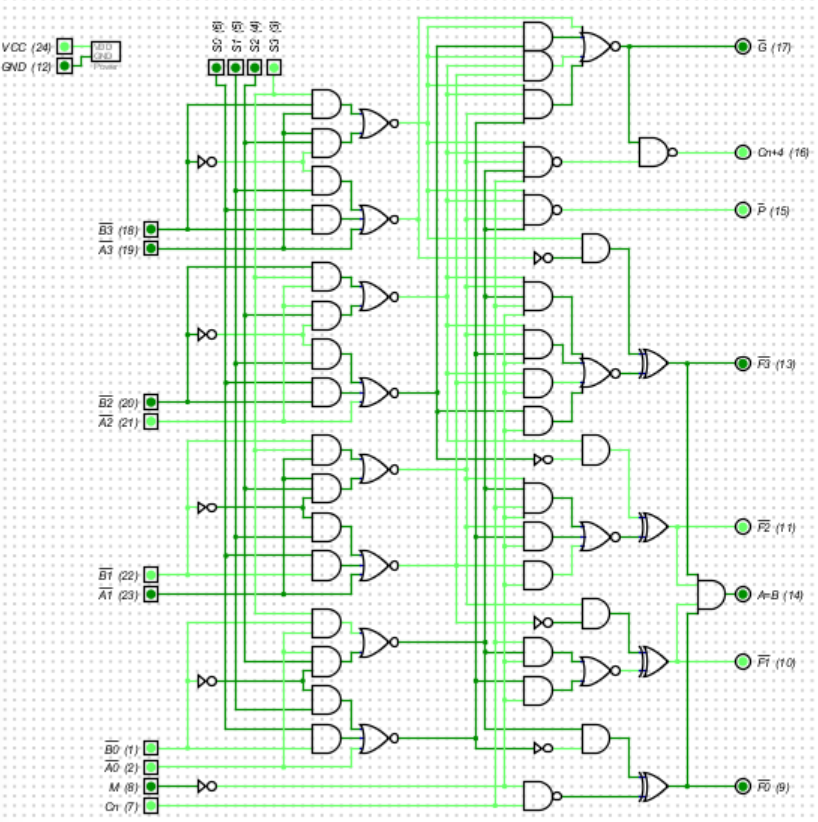
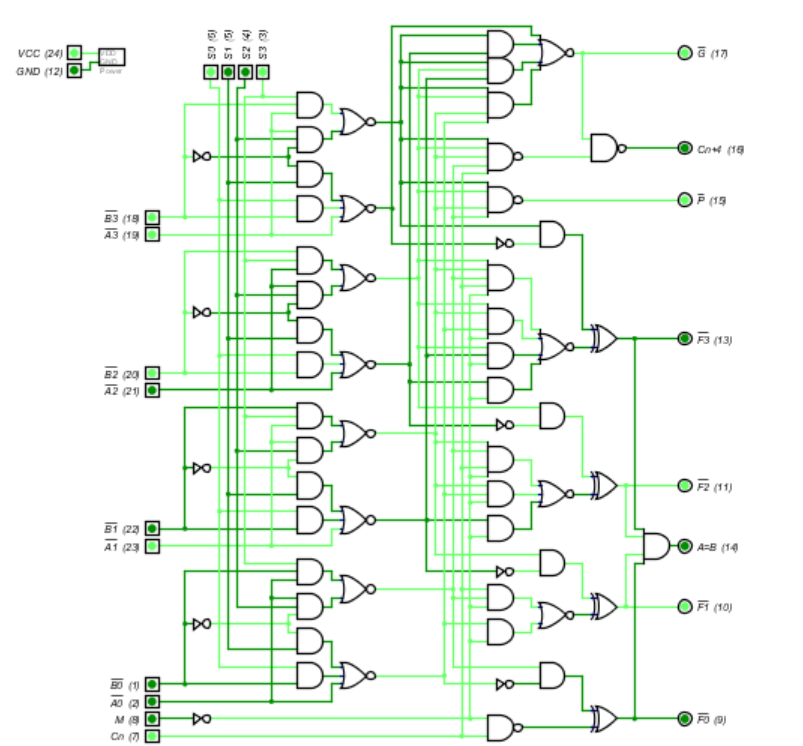
Updates images

Changed region(s): [[0.0934, 0.0, 0.9963, 1.0], [0.0, 0.0308, 0.1868, 0.1233]]

diff --git a/Lab_2/Lab_2_theory/Lab_1_Index.md b/Lab_2/Lab_2_theory/Lab_1_Index.md
@@ -87,22 +87,22 @@
     - [5.3.2 Для Verilog сервера](#532-для-verilog-сервера)
   - [5.4 Установка](#54-установка)
   - [5.5 Использование](#55-использование)
-- [5.6 Запуск через Makefile](#56-запуск-через-makefile)
-- [5.7 Запуск графического клиента](#57-запуск-графического-клиента)
-- [5.8 Файл конфигурации](#58-файл-конфигурации)
-- [5.9 Запуск сервера](#59-запуск-сервера)
-  - [5.9.1 Функционал графического интерфейса](#591-функционал-графического-интерфейса)
-  - [5.9.2 Makefile](#592-makefile)
-  - [5.9.3 Таблица сигналов](#593-таблица-сигналов)
-- [6. Описание работы виртуальный стенд 16 разрядного АЛУ на виртуальной плате DE2-115 (+ листинг код Verilog)](#6-описание-работы-виртуальный-стенд-16-разрядного-алу-на-виртуальной-плате-de2-115--листинг-код-verilog)
+  - [5.6 Запуск через Makefile](#56-запуск-через-makefile)
+  - [5.7 Запуск графического клиента](#57-запуск-графического-клиента)
+  - [5.8 Файл конфигурации](#58-файл-конфигурации)
+  - [5.9 Запуск сервера](#59-запуск-сервера)
+    - [5.9.1 Функционал графического интерфейса](#591-функционал-графического-интерфейса)
+    - [5.9.2 Makefile](#592-makefile)
+  - [5.10 Таблица сигналов](#510-таблица-сигналов)
+- [6. Описание работы виртуальный стенд 16 разрядного АЛУ на виртуальной плате DE2-115](#6-описание-работы-виртуальный-стенд-16-разрядного-алу-на-виртуальной-плате-de2-115)
   - [6.1 Описание проекта](#61-описание-проекта)
   - [6.2 Основные возможности](#62-основные-возможности)
   - [6.3 Требования](#63-требования)
     - [6.3.1 Для графического клиента](#631-для-графического-клиента)
-    - [6.3.2 Для сервера](#632-для-сервера)
+    - [6.3.2 Для Verilog сервера](#632-для-verilog-сервера)
   - [6.4 Установка](#64-установка)
   - [6.5 Использование](#65-использование)
-  - [6.6  Запуск через Makefile](#66--запуск-через-makefile)
+  - [6.6 Запуск через Makefile](#66-запуск-через-makefile)
   - [6.7 Запуск графического клиента](#67-запуск-графического-клиента)
   - [6.8 Файл конфигурации](#68-файл-конфигурации)
   - [6.9 Запуск сервера](#69-запуск-сервера)
@@ -233,7 +233,7 @@ $+$ — логическое ИЛИ (OR).
 
 Сумматоры с ускоренным переносом были разработаны как ответ на главный недостаток RCA — последовательную задержку переноса. Архитектура CLA позволяет вычислять переносы параллельно для всех разрядов, что существенно ускоряет процесс сложения и уменьшает общую задержку схемы до логарифмической зависимости от разрядности.
 
-![alt text](/Lab_2/Lab_2_theory/Images/screnshots/СLA.png)
+![alt text](/Lab_2/Lab_2_theory/Images/screnshots/CLA.png)
 
 Рисунок 2 - Сумматор с параллельным ускоренным переносом
 
@@ -267,11 +267,6 @@ $C_{i+1} = G_i + (P_i \cdot C_i)$
 Сумма для каждого разряда $S_i$ находится по стандартной формуле:
 
 $S_i = P_i \oplus C_i = (A_i \oplus B_i) \oplus C_i$
-
-
-<!-- Как эти сигналы P & G порождаются ??  -->
-<!-- Зачем P & G нужны ?  -->
-https://www.righto.com/2017/03/inside-vintage-74181-alu-chip-how-it.html#:~:text=Creating%20P%20and%20G%20with%20an%20arbitrary%20Boolean%20function
 
 *Преимущества и недостатки*
 
@@ -564,14 +559,14 @@ __Классификация АЛУ__
 
 *Пример*
 
-Рассмотрим выполнение арифметической операции сложения двух четырёхразрядных чисел. Пусть $A = 0101 (5), B = 0011 (3)$.
+Рассмотрим выполнение арифметической операции сложения двух четырёхразрядных чисел. Пусть $A = 0101 (5), B = 0011 (3)$. В микросхеме инвертированы входы A и B, а также выход F.Поэтому, $A = 1010 (5), B = 1100 (3)$
 На входы микросхемы в симуляторе устанавливаются:
 
-$A_{3} = 0, A-{2} = 1, A_{1} = 0, A_{0} = 1$
+$A_{3} = 1, A_{2} = 0, A_{1} = 1, A_{0} = 0$
 
-$B_{3} = 0, B_{2} = 0, B_{1} = 1, B_{0} = 1$
+$B_{3} = 1, B_{2} = 1, B_{1} = 0, B_{0} = 0$
  
-Для операции сложения с учётом переноса выбирается код $S_{3} – S_{0} = 0001$ (см. Таблицу команд).
+Для операции сложения с учётом переноса выбирается код $S_{3} – S_{0} = 1001$ (см. Таблицу команд).
 
 Устанавливается:
 
@@ -581,7 +576,7 @@ $C_{0} = 1$  (входной перенос)
 
 В результате на выходе:
 
-$F_{3} – F_{0} = 1001 (9)$, 
+$F_{3} – F_{0} = 0110, учитывая инвертированность F =1001 (9)$, 
 
 так как 5 + 3 + 1 = 9
 
@@ -619,34 +614,33 @@ $C_{4} = 0$ (переполнения нет).
 *Пример*
 
 Рассмотрим выполнение операции сложения двух 8-битных чисел:  
-$A = 01010101$ (85), $B = 00110011$ (51), входной перенос $C_0 = 1$.
+$A = 00010001$ (17), $B = 00110101$ (53), входной перенос $C_0 = 1$.
 
 Разделим операнды на младшие и старшие тетрады и подадим в симулятор:
 
 Для первой (младшей) 74181:
 
-$A_3 = 0$, $A_2 = 1$, $A_1 = 0$, $A_0 = 1$ → $A_{\text{low}} = 0101$
+$A_3 = 0$, $A_2 = 0$, $A_1 = 0$, $A_0 = 1$ → $A_{\text{low}} = 0001$
 
-$B_3 = 0$, $B_2 = 0$, $B_1 = 1$, $B_0 = 1$ → $B_{\text{low}} = 0011$
+$B_3 = 0$, $B_2 = 1$, $B_1 = 0$, $B_0 = 1$ → $B_{\text{low}} = 0101$
 
 Для второй (старшей) 74181:
 
-$A_7 = 0$, $A_6 = 1$, $A_5 = 0$, $A_4 = 1$ → $A_{\text{high}} = 0101$
+$A_7 = 0$, $A_6 = 0$, $A_5 = 0$, $A_4 = 1$ → $A_{\text{high}} = 0001$
 
 $B_7 = 0$, $B_6 = 0$, $B_5 = 1$, $B_4 = 1$ → $B_{\text{high}} = 0011$
 
 Управляющие сигналы:
 
-$S_3$–$S_0 = 0001$ (код сложения)  
+$S_3$–$S_0 = 1001$ (код сложения)  
 $M = 0$ (арифметическая операция)  
-$C_0 = 1$ (начальный перенос)
+$C_0 = 0$ (начальный перенос). В данной микросхеме инвертирован вход C, то есть по сути он будет равен $C_0 = 1$. 
 
 Микросхема 74182 получает:
 
 - $G_0$, $P_0$ от первой 74181  
 - $G_1$, $P_1$ от второй 74181  
-- $C_0 = 1$ (входной перенос)
-
+- $C_0$ (входной перенос)
 На основании этих данных 74182 рассчитывает и подаёт:
 
 - $C_1$ → на вход переноса второй 74181  
@@ -654,16 +648,14 @@ $C_0 = 1$ (начальный перенос)
 
 Результат:
 
-- Первая 74181: $F = 0101 + 0011 + 1 = 1001$ → $F_3$–$F_0 = 1001$
-- Вторая 74181 с учётом переноса: $F = 0101 + 0011 + 1 = 1001$ → $F_7$–$F_4 = 1001$
+- Первая 74181: $F = 0001 + 0101 + 1 = 0111$ → $F_3$–$F_0 = 0111$
+- Вторая 74181 с учётом переноса: $F = 0001 + 0011 = 0100$ → $F_7$–$F_4 = 0100$
 
 Итоговый результат:
 
-$F_7$–$F_0 = 10011001$ (в двоичной форме) = **153** (в десятичной форме)
+$F_7$–$F_0 = 01000111$ (в двоичной форме) = 71 (в десятичной форме)
 
-$C_4 = 0$ — переполнения нет.
-
-![alt] 
+![alt](/Lab_2/Lab_2_theory/Images/screnshots/example-74182.png) 
 Рисунок 7 — Пример 4-разрядного ускоренного переноса — 74182
 
 
@@ -739,7 +731,6 @@ $B = \texttt{0x9ABCDEF0}$
 Результат:
 - После выполнения сложения и передачи переносов через 74882, на выходах ALU₀–ALU₇ формируется итог:  
 - $A + B + C_n = \texttt{0xAD609569}$
-
 
 ## 4. Описание Verilator
 
@@ -2292,13 +2283,13 @@ make build
 Возможен одновременный запуск через Makefile или запуск графического клиента и сервера по отдельности.
 Во втором случае при запуске графического клиента можно ввести параметры расширения окна.
 
-## 5.6 Запуск через Makefile
+### 5.6 Запуск через Makefile
 
 ```bash
 make run
 ```
 
-## 5.7 Запуск графического клиента
+### 5.7 Запуск графического клиента
 
 ```bash
 python app.py [--width ШИРИНА] [--height ВЫСОТА] [--config ФАЙЛ]
@@ -2312,7 +2303,7 @@ python app.py [--width ШИРИНА] [--height ВЫСОТА] [--config ФАЙЛ]
 
 --config: Путь к файлу конфигурации (по умолчанию: config.ini)
 
-## 5.8 Файл конфигурации
+### 5.8 Файл конфигурации
 
 Отредактируйте config.ini для настройки размеров окна:
 
@@ -2322,12 +2313,12 @@ width = 800
 height = 500
 ```
 
-## 5.9 Запуск сервера
+### 5.9 Запуск сервера
 
 ```bash
 ./server
 ```
-### 5.9.1 Функционал графического интерфейса
+#### 5.9.1 Функционал графического интерфейса
 
 - Переключатели: 10 переключателей, которые можно включать и выключать. Их состояние сохраняется между сеансами.
 - Кнопки: 2 кнопки, которые остаются "нажатыми" после клика и возвращаются в исходное состояние при повторном клике.
@@ -2337,7 +2328,7 @@ height = 500
 - Кнопка "Load": Загружает сохраненное состояние из файла state.pkl.
 - Кнопка "Reset": Сбрасывает состояние переключателей и кнопок к значениям по умолчанию.
 
-### 5.9.2 Makefile
+#### 5.9.2 Makefile
 
 Доступные команды:
 
@@ -2349,7 +2340,7 @@ height = 500
 | `make clean`     | Удаляет все сгенерированные файлы сборки                                |
 | `make check_python` | Проверяет версию Python (должна быть 3.6+)                          |
 
-### 5.9.3 Таблица сигналов
+### 5.10 Таблица сигналов
 
 На виртуальной плате DE10-Lite загружено 8-битное АЛУ, которое поддерживает арифметические и логические операции. Ниже приведено описание сигналов, подключенных к элементам платы.
 
@@ -2367,7 +2358,7 @@ height = 500
 | `HEX[3:2]`        | Отображение операнда A                  | HEX2 (младшая часть), HEX3 (старшая часть) |
 | `HEX[5:4]`        | Отображение операнда B                  | HEX4 (младшая часть), HEX5 (старшая часть) |
 
-## 6. Описание работы виртуальный стенд 16 разрядного АЛУ на виртуальной плате DE2-115 (+ листинг код Verilog)
+## 6. Описание работы виртуальный стенд 16 разрядного АЛУ на виртуальной плате DE2-115
  
 ![alt text](https://github.com/YarosLove91/Virtual_DE_stands/blob/virtual_stand_DE2_115/images/screenshot.jpg?raw=true)
 
@@ -2403,7 +2394,7 @@ height = 500
   - `json`
   - `configparser`
 
-#### 6.3.2 Для сервера
+#### 6.3.2 Для Verilog сервера
 
 - Verilator 4.0+
 - Компилятор с поддержкой C++17
@@ -2434,7 +2425,7 @@ make build
 Возможен одновременный запуск через Makefile или запуск графического клиента и сервера по отдельности.
 Во втором случае при запуске графического клиента можно ввести параметры расширения окна.
 
-### 6.6  Запуск через Makefile
+### 6.6 Запуск через Makefile
 
 ```bash
 make run
